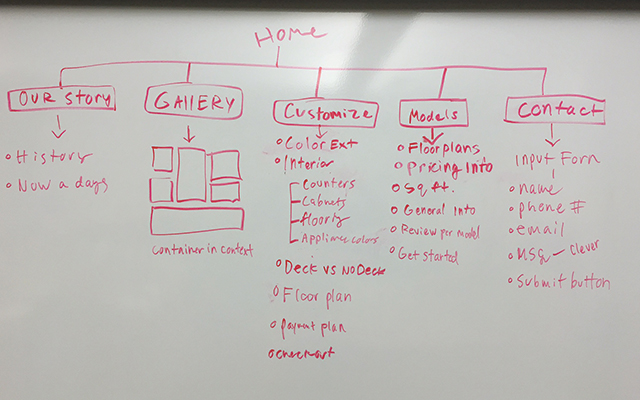
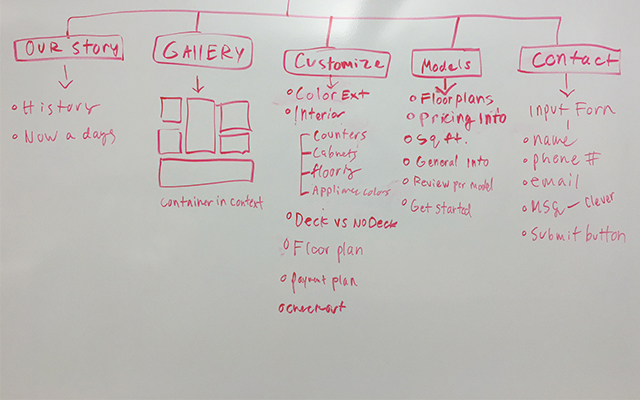
Uploaded nooke

diff --git a/nooke.html b/nooke.html
@@ -35,45 +35,45 @@
 		<p class="contactinfo">
 
 		<b>THE PROJECT</b><br>
-		This project was to done for a client based out of spokane that specilizes in container homes. Our job was to produce a website and branding that met all of the needs of our customers.<br><br>
+		This project was to done for a client based out of Spokane that specializes in container homes. Our job was to produce a website and branding that met all of the needs of our customers.<br><br>
 
 		<b>MY ROLE</b></br>
 		Art director and head of UX. I was in charge of leading UX workshops to teach other student designers about the importance of UX. I also designed all web assets and pushed the branding in a modern sleek design.<br><br>
 
 		<b>GOAL</b><br>
-		Our primary objective was to create an engaging website that allows users to order and customize their own container homes. We set a major focus on ensuring that the user experience was quick, simple, and painless. <br><br>
+		Our primary objective was to create an engaging website that allows users to order and customize their own container homes. We set our major focus on ensuring that the user experience was quick, simple, and painless. <br><br>
 
 		<b>RESEARCH</b><br>
-		We began our research by collecting information on our target users and determining what our users were looking for when customizing products. We did our fair share of digging to really understand our users. Once understanding our users better we couducted a few short interviews of the target demographic, 25-35 year olds.<br><br>
+		We began our research by collecting information on our target users. Specifically, we wanted to determine what our users were looking for when customizing products. We did our fair share of digging, to really understand our users. Once understanding our users better we conducted a few short interviews to get a sample of our target customers. These were 25-35 year olds.<br><br>
 
 				<strong><i>Major Research Findings</i></strong><br><br>
 				The designs had to be functional and have strong visual presence.<br><br>
 				Many of the target users are busy and do not spend much time at home.<br><br>
-				With many of the target users being considered to be hipsters, the small footprint of container homes appeals to them.<br><br>
+				The fact that containe home produced a small footprint was a strong selling point.<br><br>
 
 
 				<strong><i>Personas</i></strong><br><br>
-				From the information we had gathered we developed personas to help us further undestand our users.<br><br>
+				From the information we had gathered we developed personas to help us further understand our users.<br><br>
 				<img src="img/personas_nooke.jpg">
 			
 	
 		<b>PROCESS</b><br>  
-		We began with branding the company. We knew that our logo was going to have equal importance to everything else. Our concept was you begin with you container and add your own personal elements to your container to create your Nooke. <br><br>
+		We began with branding the company. We knew that our logo was going to have equal importance as anything else we designed. Our concept was to begin with a container, add your own personal elements and then you have created your Nooke. <br><br>
 		
 		<img src="img/photo13_nooke.jpg">
 		<img src="img/photo14_nooke.jpg">
 		<strong><i>Information Architecture</i></strong><br><br>
-		Once we had completed the branding we did some work on the information architecture. We began with brainstorming as many elements as we could think of for the site and then narrowed it down to what was really needed.<br><br>
+		Once we had completed the branding we did some work on the information architecture. We began by brainstorming as many elements for the site as possible and then narrowed it down to what was really needed.<br><br>
 		<img src="img/brainstorm_nooke.jpg">
-		<img src="img/contentinv_nooke.jpg">
-		After finishing up the site map we produced user flows to see how our users would navigate through the site and then created wireframes to lay the base for design.(Deliverables were created for wires, sitemap, user flows, and personas.)<br><br>
+		<img src="img/whitesitemap_nooke.jpg">
+		After finishing up the site map we produced user flows to see how our users would navigate through the site. Wireframes were then created to lay the base for design.(Deliverables were created for wires, sitemap, user flows, and personas.)<br><br>
 
 	</p>
 		<p class="contactinfo">
 		
 
 		<b>SOLUTION</b><br>
-		In the end we created a website the way easy to use and limited the options of customization so that it would not overwhelm the user. We only included a select few options. The site showcased the conatiner home throughout the entire process so the user could see their customizations in a live view.<br><br>
+		In the end we created a website that was easy to use, had limited customization options, and did not overwhelm the users. The site showcased the container homes throughout the entire process so the user could see customizations in a live view. The site was designed to keep the users engaged as much as possible. <br><br>
 		</p>
 		<div class="proto">
 			<a href="https://marvelapp.com/5ggg3b6"><h3>PROTOTYPE</h3></a>

diff --git a/index.html b/index.html
@@ -32,21 +32,33 @@
 		</article>
 <section class="main-content">
 	<section class="gallery">
-			<article>
-		<a href="page2.html">
-			<img src="img/img2.jpg">
-		</a>
-			</article>
+
+	
+
 		<article>
-		<a href="page3.html">
-			<img src="img/img3.jpg">
-		</a>
-			</article>
+			<a href="page2.html">
+				<img src="img/img2.jpg">
+			</a>
+		</article>
+
 		<article>
-		<a href="page4.html">
-			<img src="img/img4.jpg">
-		</a>
-			</article>
+			<a href="nooke.html">
+				<img src="img/tile_nooke.jpg">
+			</a>
+		</article>
+		
+		<article>
+			<a href="page4.html">
+				<img src="img/img4.jpg">
+			</a>
+		</article>
+		<article>
+			<a href="page3.html">
+				<img src="img/img3.jpg">
+			</a>
+		</article>
+
+
 		<article>
 			<a href="page1.html">
 				<img src="img/img1.jpg">
@@ -54,16 +66,16 @@
 		</article>	
 
 
+		
+
+		
+
+
 		<article>
-		<a href="#">
-			<img src="img/img5_s.jpg">
-		</a>
-			</article>
-		<article>
-		<a href="#">
-			<img src="img/img6_s.jpg">
-		</a>
-			</article>
+			<a href="#">
+				<img src="img/tile_quote.jpg">
+			</a>
+		</article>
 		
 	</article>
 	</section>

diff --git a/css/styles.css b/css/styles.css
@@ -52,7 +52,7 @@ ul li {
   	background: #4D4F51;
   	cursor: pointer;
   	text-transform: uppercase;
-  	font-weight: 100;
+  	font-weight: bold;
   	-webkit-font-smoothing:antialiased;
 
 }
@@ -119,6 +119,10 @@ span{
 .hidden1 {
 
 	display: none;
+}
+
+.main-content{
+	margin-top: 50px;
 }
 /*****************  Image Gallery  ******************/
 
@@ -206,6 +210,7 @@ span{
 	
 	width:100%;
 	margin:auto;
+	margin-top: 50px;
 
 }
 
